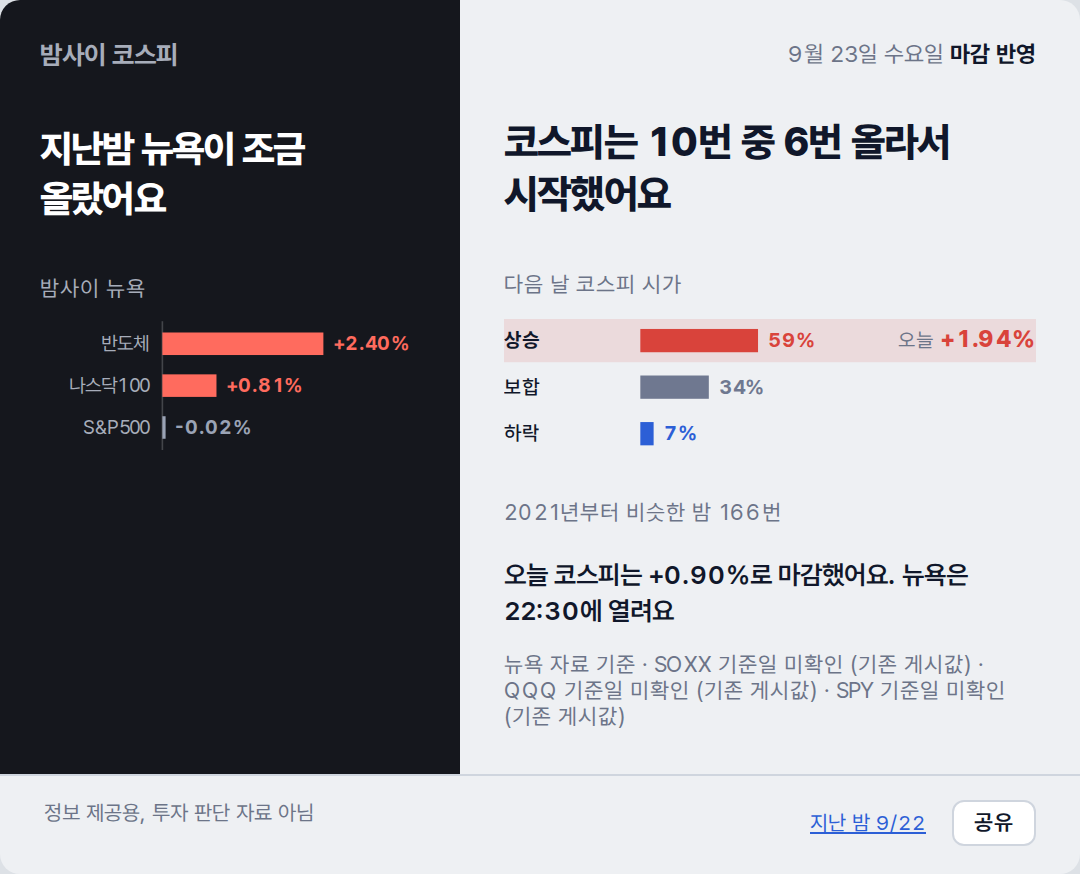
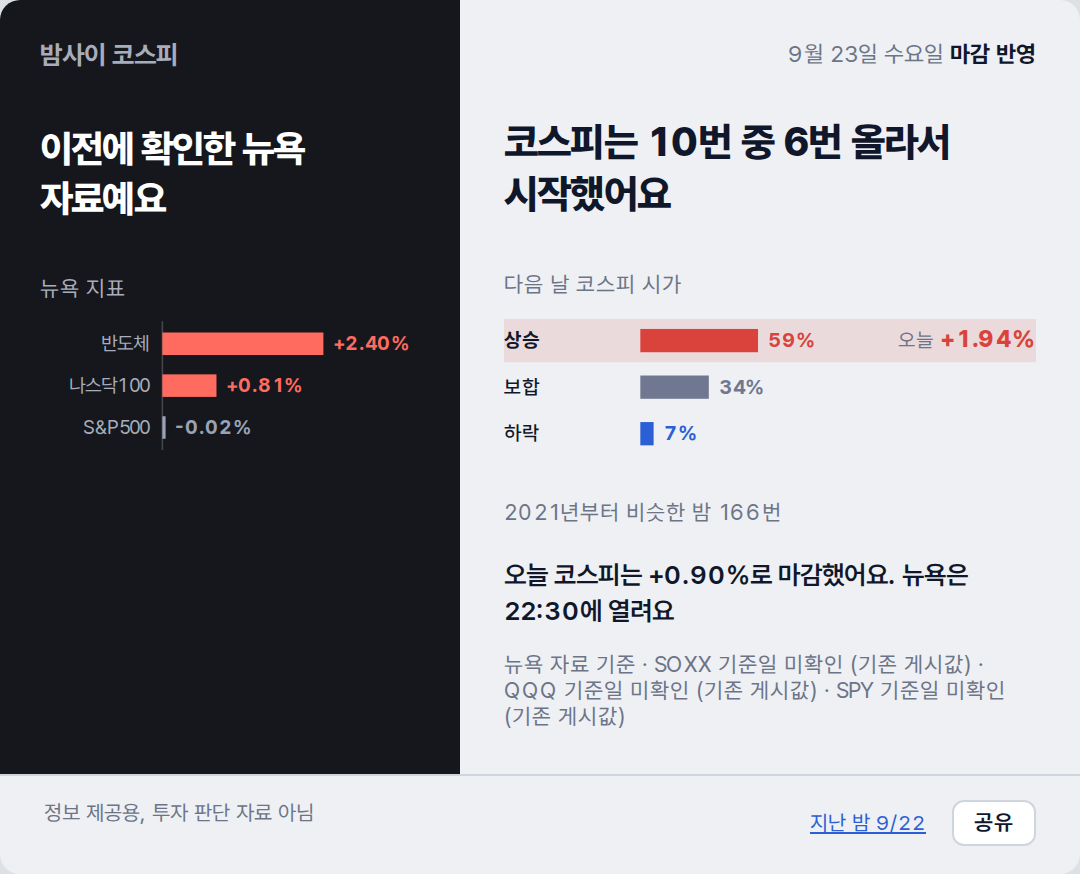
deploy: 06ab488d5a292f1f46a84d7724b812082235f543

Changed region(s): [[0.0306, 0.1545, 0.3056, 0.2471], [0.0306, 0.3089, 0.1528, 0.3398]]

diff --git a/2026-09-23/index.html b/2026-09-23/index.html
@@ -2,7 +2,7 @@
 <title>밤사이 코스피 · 2026-09-23</title>
 <meta name="description" content="전일 코스피 마감에서 밤사이 뉴욕을 거쳐 오늘 코스피 시가까지, 한 장.">
 <meta property="og:type" content="article"><meta property="og:site_name" content="밤사이 코스피"><meta property="og:url" content="https://mjs0611.github.io/kospi-relay/2026-09-23/">
-<meta property="og:title" content="지난밤 뉴욕이 조금 올랐어요"><meta property="og:description" content="코스피는 10번 중 6번 올라서 시작했어요">
+<meta property="og:title" content="이전에 확인한 뉴욕 자료예요"><meta property="og:description" content="코스피는 10번 중 6번 올라서 시작했어요">
 <meta property="og:image" content="https://mjs0611.github.io/kospi-relay/2026-09-23/relay.png"><meta property="og:image:width" content="1080"><meta name="twitter:card" content="summary_large_image">
 <link rel="stylesheet" href="https://cdn.jsdelivr.net/gh/orioncactus/pretendard@v1.3.9/dist/web/variable/pretendardvariable-dynamic-subset.min.css">
 <style>
@@ -26,7 +26,7 @@ footer a{color:#2C5FD6}
 .share{margin-left:10px;border:1px solid #CFD5DE;background:#FFF;color:#10172A;border-radius:6px;padding:4px 10px;font:600 11px var(--sans);cursor:pointer}
 @media (max-width:480px){.sheet{grid-template-columns:1fr}.cond{margin-top:18px}.claim{margin-top:4px}}
 </style></head><body><div class="sheet">
-<section class="night"><p class="brand">밤사이 코스피</p><p class="cond">지난밤 뉴욕이 조금 올랐어요</p><p class="lab">밤사이 뉴욕</p><svg viewBox="0 0 236 84" xmlns="http://www.w3.org/2000/svg" font-family="var(--sans)" font-size="12">
+<section class="night"><p class="brand">밤사이 코스피</p><p class="cond">이전에 확인한 뉴욕 자료예요</p><p class="lab">뉴욕 지표</p><svg viewBox="0 0 236 84" xmlns="http://www.w3.org/2000/svg" font-family="var(--sans)" font-size="12">
 <line x1="76" y1="2" x2="76" y2="82" stroke="var(--rule)" stroke-width="1"/>
 <text x="68" y="20" text-anchor="end" fill="var(--muted)">반도체</text>
 <rect x="76" y="9" width="100.0" height="14" fill="var(--up)"/>
@@ -55,7 +55,7 @@ footer a{color:#2C5FD6}
 <script>
 /* 공유: Web Share가 있으면 시스템 공유 시트, 없으면 링크 복사. 링크는 이 날짜 페이지(OG 카드 붙음) */
 document.querySelector('.share').addEventListener('click', async function () {
-  var url = 'https://mjs0611.github.io/kospi-relay/2026-09-23/', text = "지난밤 뉴욕이 조금 올랐어요. 코스피는 10번 중 6번 올라서 시작했어요";
+  var url = 'https://mjs0611.github.io/kospi-relay/2026-09-23/', text = "이전에 확인한 뉴욕 자료예요. 코스피는 10번 중 6번 올라서 시작했어요";
   try { if (navigator.share) { await navigator.share({ title: '밤사이 코스피', text: text, url: url }); return; } } catch (e) { return; }
   try { await navigator.clipboard.writeText(text + '
 ' + url); this.textContent = '링크 복사됨'; } catch (e) { location.href = url; }

diff --git a/index.html b/index.html
@@ -2,7 +2,7 @@
 <title>밤사이 코스피 · 2026-09-23</title>
 <meta name="description" content="전일 코스피 마감에서 밤사이 뉴욕을 거쳐 오늘 코스피 시가까지, 한 장.">
 <meta property="og:type" content="article"><meta property="og:site_name" content="밤사이 코스피"><meta property="og:url" content="https://mjs0611.github.io/kospi-relay/2026-09-23/">
-<meta property="og:title" content="지난밤 뉴욕이 조금 올랐어요"><meta property="og:description" content="코스피는 10번 중 6번 올라서 시작했어요">
+<meta property="og:title" content="이전에 확인한 뉴욕 자료예요"><meta property="og:description" content="코스피는 10번 중 6번 올라서 시작했어요">
 <meta property="og:image" content="https://mjs0611.github.io/kospi-relay/2026-09-23/relay.png"><meta property="og:image:width" content="1080"><meta name="twitter:card" content="summary_large_image">
 <link rel="stylesheet" href="https://cdn.jsdelivr.net/gh/orioncactus/pretendard@v1.3.9/dist/web/variable/pretendardvariable-dynamic-subset.min.css">
 <style>
@@ -26,7 +26,7 @@ footer a{color:#2C5FD6}
 .share{margin-left:10px;border:1px solid #CFD5DE;background:#FFF;color:#10172A;border-radius:6px;padding:4px 10px;font:600 11px var(--sans);cursor:pointer}
 @media (max-width:480px){.sheet{grid-template-columns:1fr}.cond{margin-top:18px}.claim{margin-top:4px}}
 </style></head><body><div class="sheet">
-<section class="night"><p class="brand">밤사이 코스피</p><p class="cond">지난밤 뉴욕이 조금 올랐어요</p><p class="lab">밤사이 뉴욕</p><svg viewBox="0 0 236 84" xmlns="http://www.w3.org/2000/svg" font-family="var(--sans)" font-size="12">
+<section class="night"><p class="brand">밤사이 코스피</p><p class="cond">이전에 확인한 뉴욕 자료예요</p><p class="lab">뉴욕 지표</p><svg viewBox="0 0 236 84" xmlns="http://www.w3.org/2000/svg" font-family="var(--sans)" font-size="12">
 <line x1="76" y1="2" x2="76" y2="82" stroke="var(--rule)" stroke-width="1"/>
 <text x="68" y="20" text-anchor="end" fill="var(--muted)">반도체</text>
 <rect x="76" y="9" width="100.0" height="14" fill="var(--up)"/>
@@ -55,7 +55,7 @@ footer a{color:#2C5FD6}
 <script>
 /* 공유: Web Share가 있으면 시스템 공유 시트, 없으면 링크 복사. 링크는 이 날짜 페이지(OG 카드 붙음) */
 document.querySelector('.share').addEventListener('click', async function () {
-  var url = 'https://mjs0611.github.io/kospi-relay/2026-09-23/', text = "지난밤 뉴욕이 조금 올랐어요. 코스피는 10번 중 6번 올라서 시작했어요";
+  var url = 'https://mjs0611.github.io/kospi-relay/2026-09-23/', text = "이전에 확인한 뉴욕 자료예요. 코스피는 10번 중 6번 올라서 시작했어요";
   try { if (navigator.share) { await navigator.share({ title: '밤사이 코스피', text: text, url: url }); return; } } catch (e) { return; }
   try { await navigator.clipboard.writeText(text + '
 ' + url); this.textContent = '링크 복사됨'; } catch (e) { location.href = url; }
